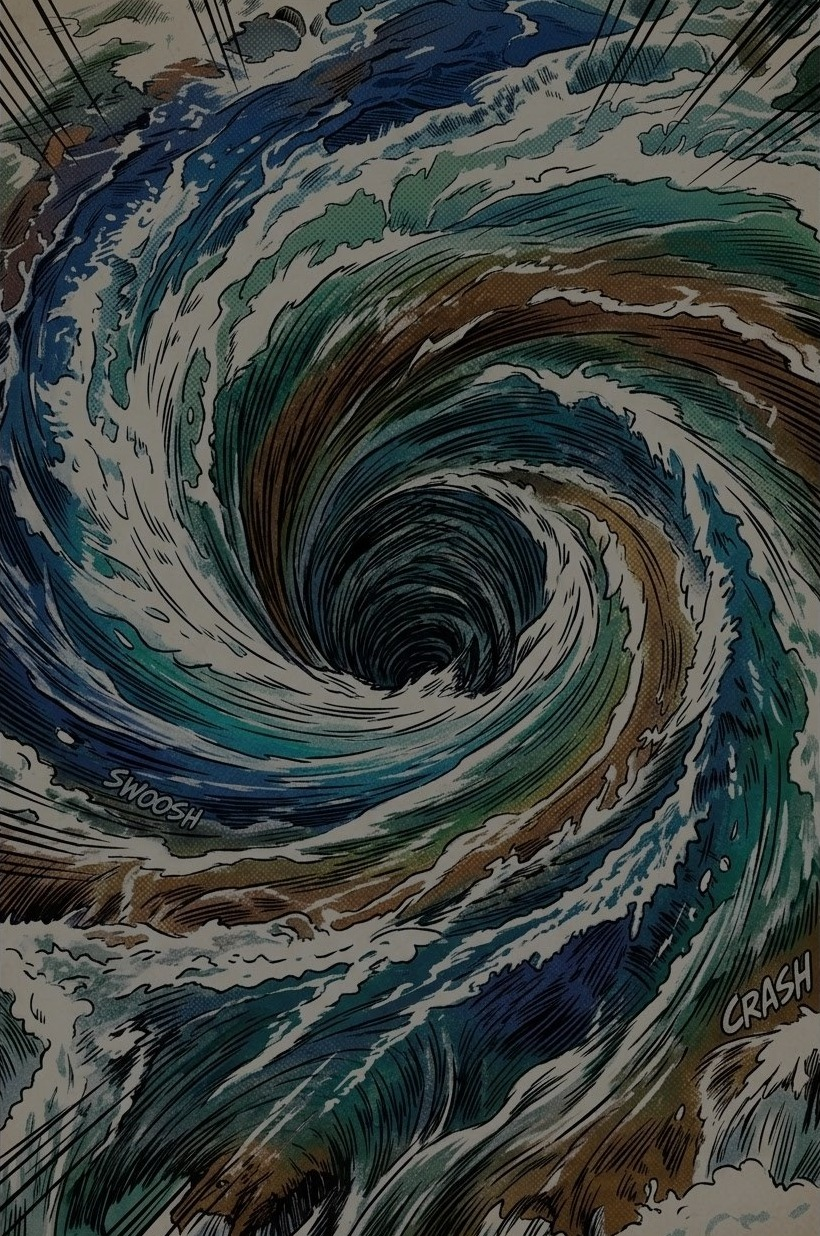
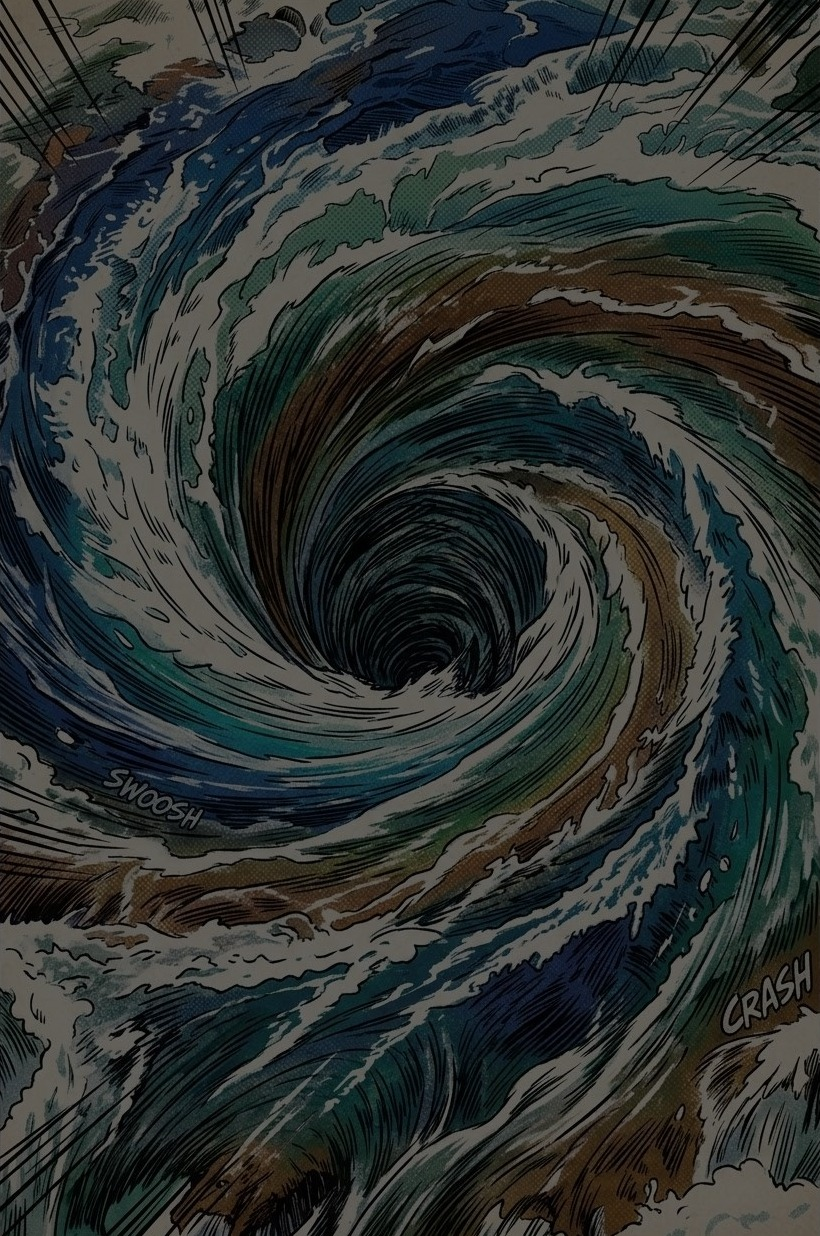
Title boards: solid Distressed lettering, and a darker whirlpool
Yan found the quote poster's lettering too dark. Rubik Distressed's erosion let the
whirlpool through the letters, where Sam's slides draw them solid. Title lettering in
Distressed now gets a thin outline in its own colour (0.03em), which fills the erosion
and keeps the torn edges. The whirlpool's black overlay goes from 48% to 60%, as on the
slides.

Plan: 2026-10-02_title-boards

diff --git a/src/lib/components/BalloonView.svelte b/src/lib/components/BalloonView.svelte
@@ -57,6 +57,7 @@
 		class="balloon-text absolute flex flex-col justify-center overflow-visible text-center"
 		class:sfx={balloon.type === 'sfx'}
 		class:title={balloon.type === 'title'}
+		class:solid={balloon.type === 'title' && lettering.fontFamily.includes('Distressed')}
 		style:inset="{balloon.h * inset}px {balloon.w * inset}px"
 		style:font-family={lettering.fontFamily}
 		style:font-weight={lettering.fontWeight}
@@ -93,6 +94,13 @@
 	.balloon-text.title :global(mark) {
 		background: none;
 		color: var(--sfx-stroke);
+	}
+	/* Rubik Distressed as Sam's slides draw it: its erosion filled in by a thin outline in the
+	   letter's own colour, leaving the torn edges and a few specks. */
+	.balloon-text.title.solid,
+	.balloon-text.title.solid :global(mark) {
+		-webkit-text-stroke: 0.03em currentColor;
+		paint-order: stroke fill;
 	}
 	.balloon-text.sfx {
 		color: var(--sfx-fill);
